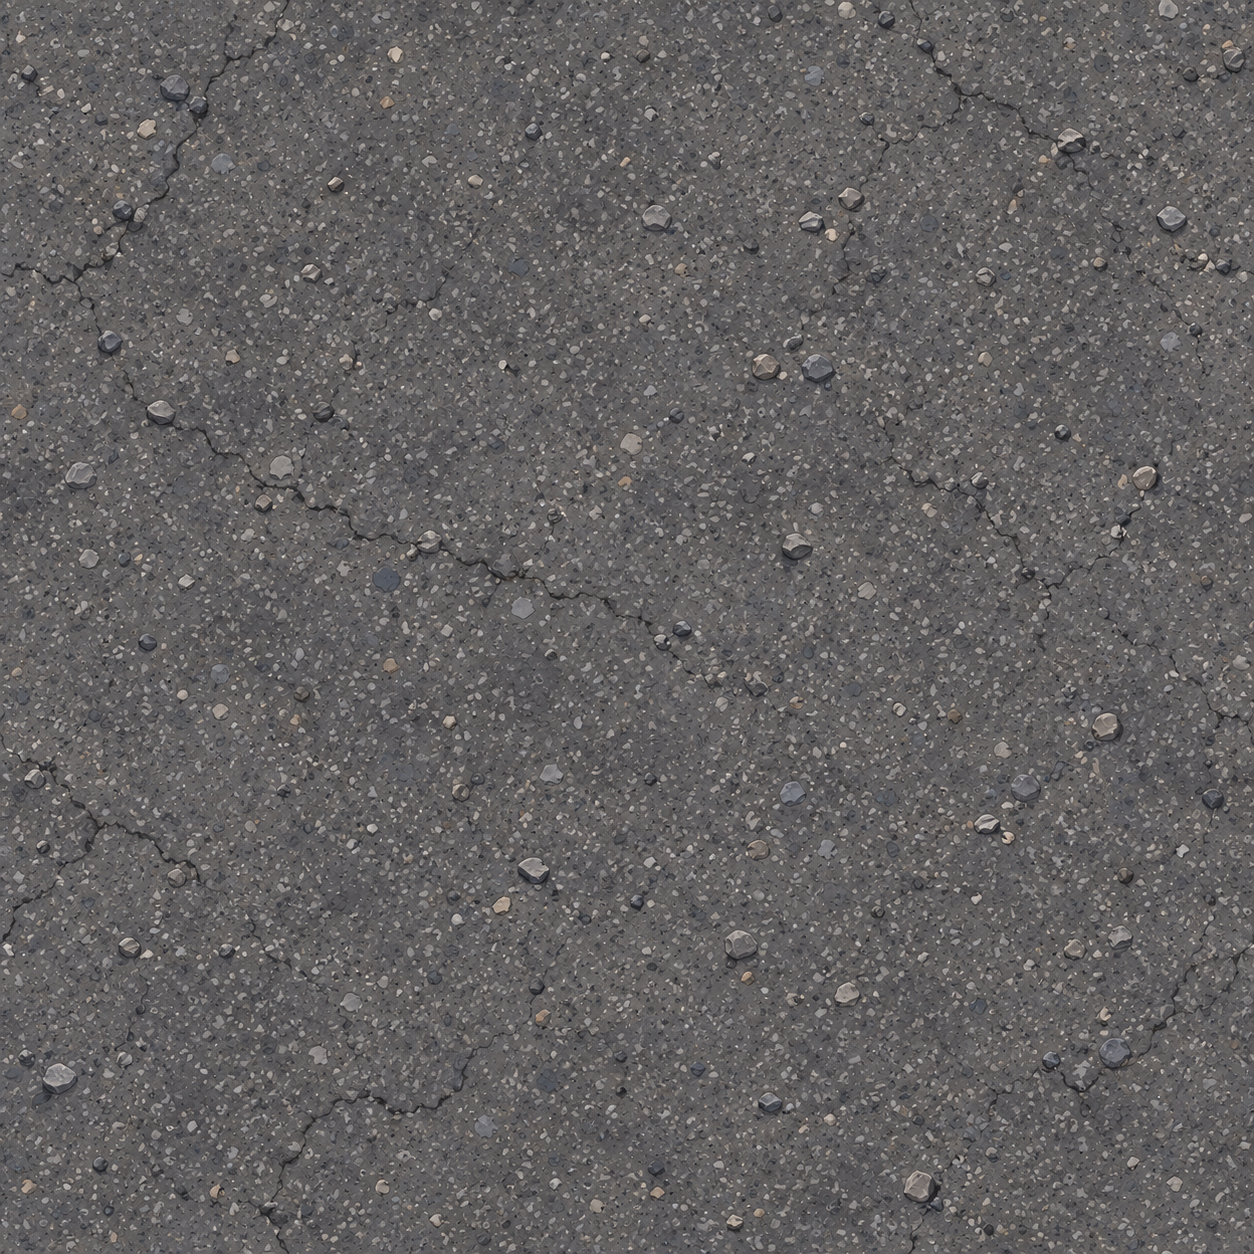
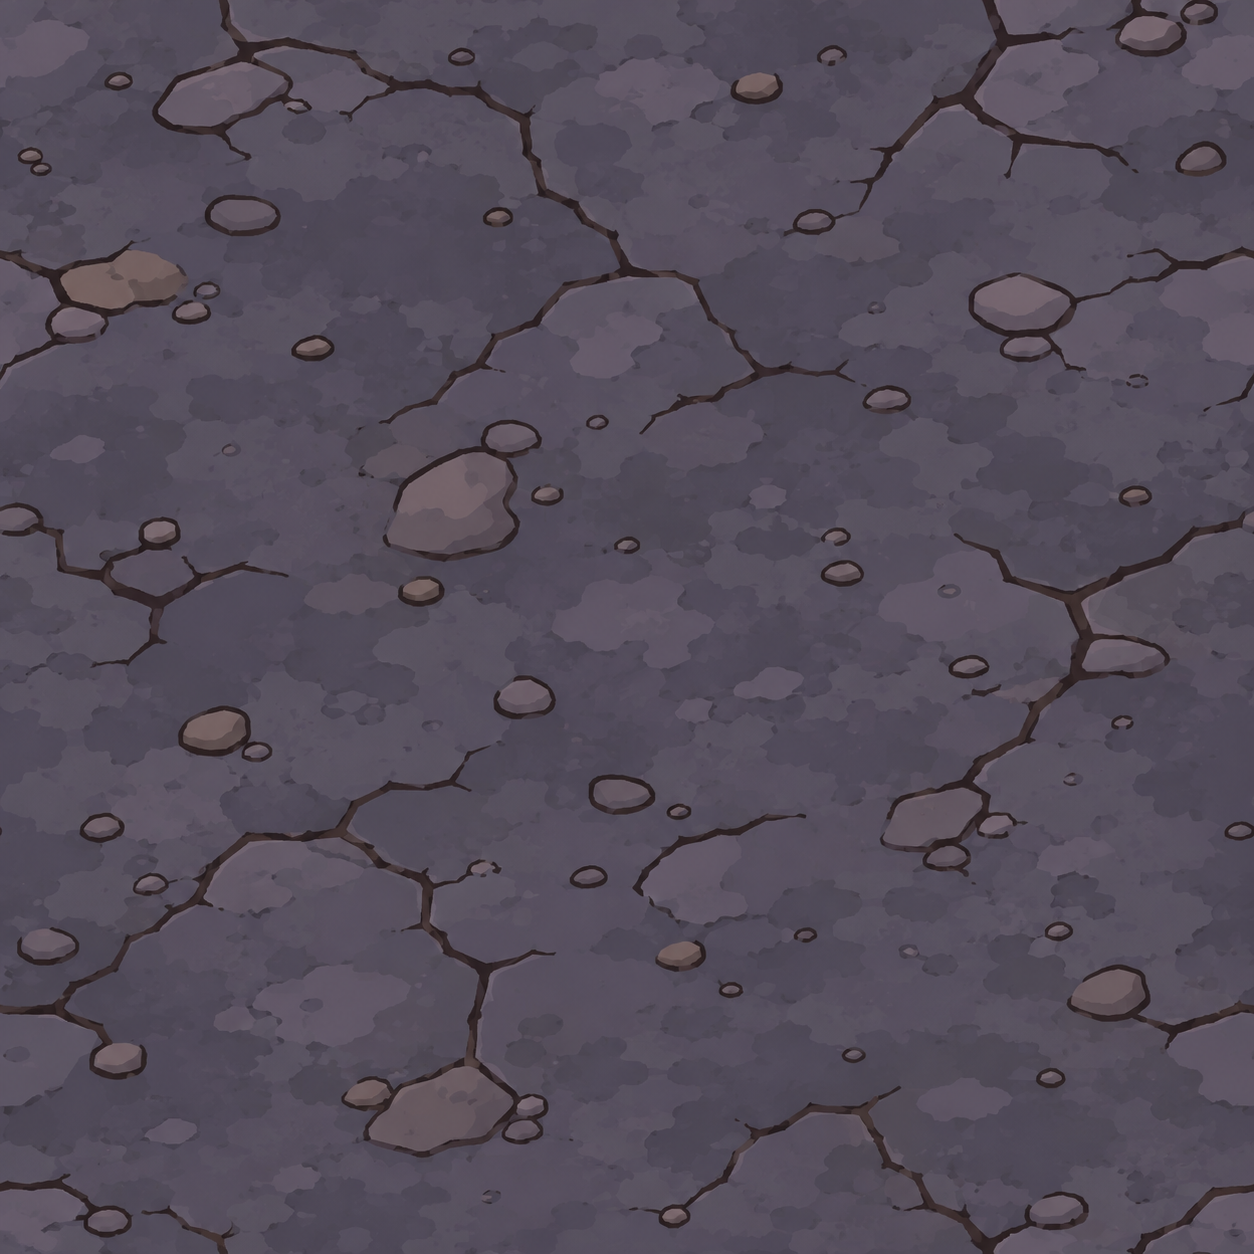
Cartoon sky, asphalt and sidewalk
Claude-Session: https://claude.ai/code/session_01NK9iDXTyx3wBvzPstrXWEG

diff --git a/docs/CHANGELOG.fa.md b/docs/CHANGELOG.fa.md
@@ -2,6 +2,10 @@
 
 این فایل خلاصهی کارهای انجامشده است تا اگر کار جای دیگری ادامه پیدا کرد، معلوم باشد چه ساخته شده، چرا، و چه چیزهایی هنوز باز است. جزئیاتِ هر تغییر در پیامِ کامیتهاست (`git log`)؛ اینجا فقط نقشهی راه.
 
+## ۲۲ آبان -- آسمان، آسفالت و پیادهرویِ کارتونی
+
+* سه تصویرِ تازهی کاربر بهجایِ قبلیها (قدیمیها در `Assets/ArtArchive/Houses/old_*`). آسمان ۲۰۴۸×۱۰۲۴، زمینها ۱۲۵۴ مربع مثلِ قبل. ⚠ لبهی چپ/راستِ پیادهرو کمی ناهمخوان است (میانگینِ اختلاف ۱۲ در برابرِ ۲ داخلِ تصویر)؛ اگر رویِ گوشی خطی دیده شد، همانجا.
+
 ## ۲۲ آبان -- خانههای ۳۶ تا ۳۹ هم کارتونی شدند
 
 * کاربر: «خونه ها تکمیل شد». هر چهار خانه با پنجرههایِ اندازهگیریشده رویِ تصویرِ تازه (۱۷/۱۳/۲۱/۱۱ پنجره، همه فرد). ⚠ شکستهیِ ۳۹ از وسط به راست ۳۲ پیکسل جابهجا بود؛ برایِ هر چهار خانه تصویرِ شکسته از نو ساخته شد: سالم + شیشهیِ شکستهیِ هر پنجره با جابهجاییِ خودِ همان پنجره (phase correlation). لباسهایِ آویزانِ خانهی ۳۸ (رویِ تصویرِ قدیم) برداشته شد. قدیمیها در `Assets/ArtArchive/Houses/`.
